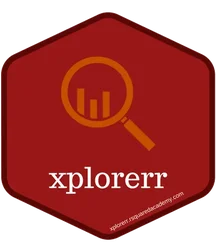
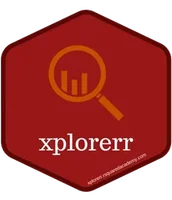
perf: shrink hex stickers to 2x display size

diff --git a/index.html b/index.html
@@ -171,7 +171,7 @@
               <div class="lgrid lgrid-h">
             <article class="lcard lcard-h" id="olsrr">
               <div class="lside">
-                <img class="lcover lcover-hex" src="images/hex-olsrr.webp" alt="olsrr hex sticker" width="216" height="250" loading="lazy" decoding="async">
+                <img class="lcover lcover-hex" src="images/hex-olsrr.webp" alt="olsrr hex sticker" width="172" height="200" loading="lazy" decoding="async">
                 <div class="lactions"><div class="lactions-row"><a class="lbtn" href="https://cran.r-project.org/package=olsrr">CRAN</a><a class="lbtn" href="https://github.com/rsquaredacademy/olsrr">GitHub</a><a class="lbtn" href="https://olsrr.rsquaredacademy.com">Docs</a></div></div>
               </div>
               <div class="lbody">
@@ -185,7 +185,7 @@
             </article>
             <article class="lcard lcard-h" id="blorr">
               <div class="lside">
-                <img class="lcover lcover-hex" src="images/hex-blorr.webp" alt="blorr hex sticker" width="216" height="250" loading="lazy" decoding="async">
+                <img class="lcover lcover-hex" src="images/hex-blorr.webp" alt="blorr hex sticker" width="172" height="200" loading="lazy" decoding="async">
                 <div class="lactions"><div class="lactions-row"><a class="lbtn" href="https://cran.r-project.org/package=blorr">CRAN</a><a class="lbtn" href="https://github.com/rsquaredacademy/blorr">GitHub</a><a class="lbtn" href="https://blorr.rsquaredacademy.com">Docs</a></div></div>
               </div>
               <div class="lbody">
@@ -199,7 +199,7 @@
             </article>
             <article class="lcard lcard-h" id="xplorerr">
               <div class="lside">
-                <img class="lcover lcover-hex" src="images/hex-xplorerr.webp" alt="xplorerr hex sticker" width="216" height="250" loading="lazy" decoding="async">
+                <img class="lcover lcover-hex" src="images/hex-xplorerr.webp" alt="xplorerr hex sticker" width="172" height="200" loading="lazy" decoding="async">
                 <div class="lactions"><div class="lactions-row"><a class="lbtn" href="https://cran.r-project.org/package=xplorerr">CRAN</a><a class="lbtn" href="https://github.com/rsquaredacademy/xplorerr">GitHub</a><a class="lbtn" href="https://xplorerr.rsquaredacademy.com">Docs</a></div></div>
               </div>
               <div class="lbody">
@@ -218,7 +218,7 @@
               <div class="lgrid lgrid-h">
             <article class="lcard lcard-h" id="descriptr">
               <div class="lside">
-                <img class="lcover lcover-hex" src="images/hex-descriptr.webp" alt="descriptr hex sticker" width="216" height="250" loading="lazy" decoding="async">
+                <img class="lcover lcover-hex" src="images/hex-descriptr.webp" alt="descriptr hex sticker" width="172" height="200" loading="lazy" decoding="async">
                 <div class="lactions"><div class="lactions-row"><a class="lbtn" href="https://cran.r-project.org/package=descriptr">CRAN</a><a class="lbtn" href="https://github.com/rsquaredacademy/descriptr">GitHub</a><a class="lbtn" href="https://descriptr.rsquaredacademy.com">Docs</a></div></div>
               </div>
               <div class="lbody">
@@ -232,7 +232,7 @@
             </article>
             <article class="lcard lcard-h" id="inferr">
               <div class="lside">
-                <img class="lcover lcover-hex" src="images/hex-inferr.webp" alt="inferr hex sticker" width="216" height="250" loading="lazy" decoding="async">
+                <img class="lcover lcover-hex" src="images/hex-inferr.webp" alt="inferr hex sticker" width="172" height="200" loading="lazy" decoding="async">
                 <div class="lactions"><div class="lactions-row"><a class="lbtn" href="https://cran.r-project.org/package=inferr">CRAN</a><a class="lbtn" href="https://github.com/rsquaredacademy/inferr">GitHub</a><a class="lbtn" href="https://inferr.rsquaredacademy.com">Docs</a></div></div>
               </div>
               <div class="lbody">
@@ -246,7 +246,7 @@
             </article>
             <article class="lcard lcard-h" id="vistributions">
               <div class="lside">
-                <img class="lcover lcover-hex" src="images/hex-vistributions.webp" alt="vistributions hex sticker" width="216" height="250" loading="lazy" decoding="async">
+                <img class="lcover lcover-hex" src="images/hex-vistributions.webp" alt="vistributions hex sticker" width="172" height="200" loading="lazy" decoding="async">
                 <div class="lactions"><div class="lactions-row"><a class="lbtn" href="https://cran.r-project.org/package=vistributions">CRAN</a><a class="lbtn" href="https://github.com/rsquaredacademy/vistributions">GitHub</a><a class="lbtn" href="https://vistributions.rsquaredacademy.com">Docs</a></div></div>
               </div>
               <div class="lbody">
@@ -265,7 +265,7 @@
               <div class="lgrid lgrid-h">
             <article class="lcard lcard-h" id="rbin">
               <div class="lside">
-                <img class="lcover lcover-hex" src="images/hex-rbin.webp" alt="rbin hex sticker" width="216" height="250" loading="lazy" decoding="async">
+                <img class="lcover lcover-hex" src="images/hex-rbin.webp" alt="rbin hex sticker" width="172" height="200" loading="lazy" decoding="async">
                 <div class="lactions"><div class="lactions-row"><a class="lbtn" href="https://cran.r-project.org/package=rbin">CRAN</a><a class="lbtn" href="https://github.com/rsquaredacademy/rbin">GitHub</a><a class="lbtn" href="https://rbin.rsquaredacademy.com">Docs</a></div></div>
               </div>
               <div class="lbody">
@@ -279,7 +279,7 @@
             </article>
             <article class="lcard lcard-h" id="rfm">
               <div class="lside">
-                <img class="lcover lcover-hex" src="images/hex-rfm.webp" alt="rfm hex sticker" width="216" height="250" loading="lazy" decoding="async">
+                <img class="lcover lcover-hex" src="images/hex-rfm.webp" alt="rfm hex sticker" width="172" height="200" loading="lazy" decoding="async">
                 <div class="lactions"><div class="lactions-row"><a class="lbtn" href="https://cran.r-project.org/package=rfm">CRAN</a><a class="lbtn" href="https://github.com/rsquaredacademy/rfm">GitHub</a><a class="lbtn" href="https://rfm.rsquaredacademy.com">Docs</a></div></div>
               </div>
               <div class="lbody">
